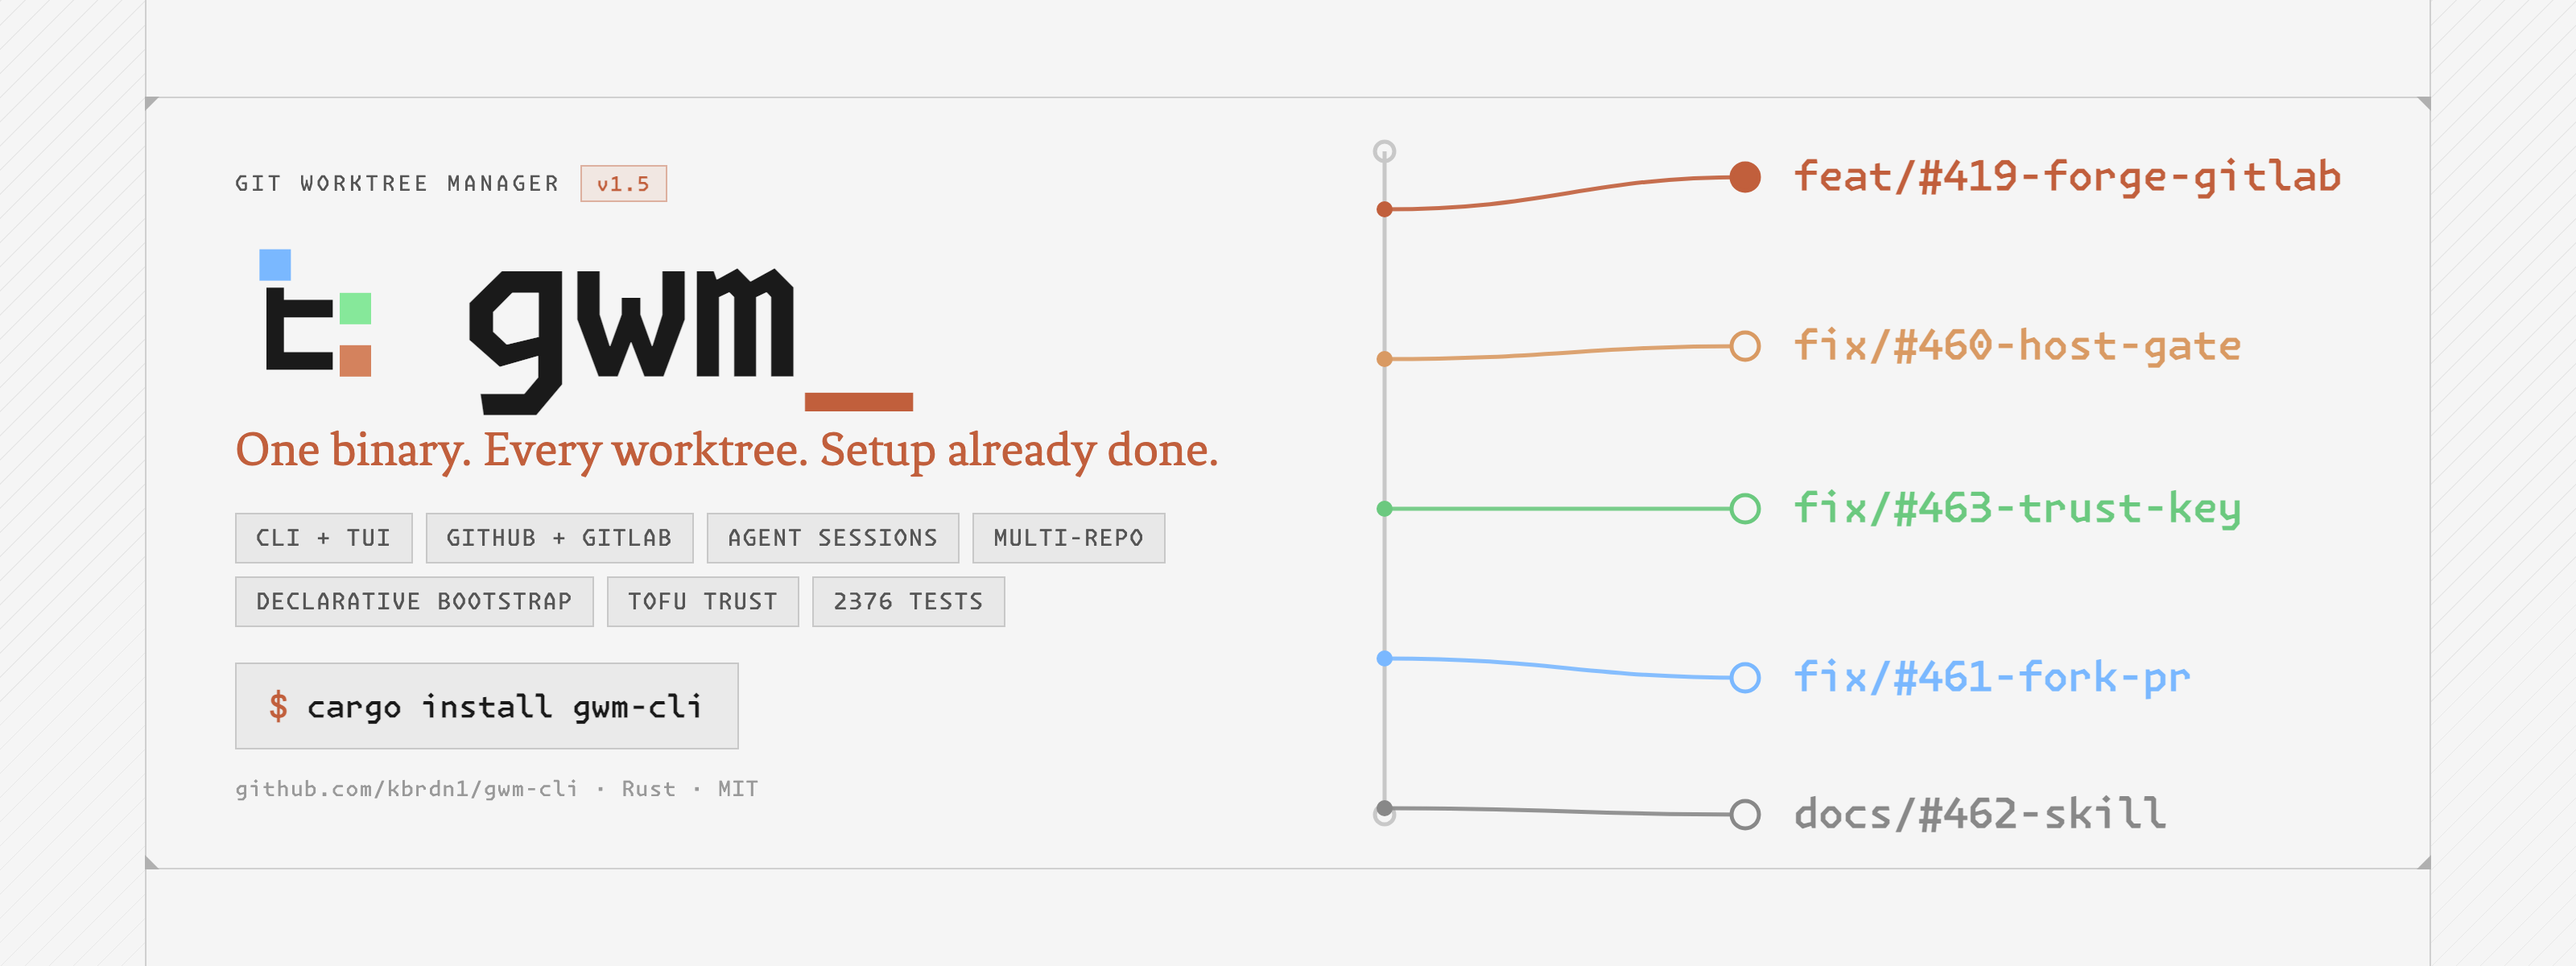
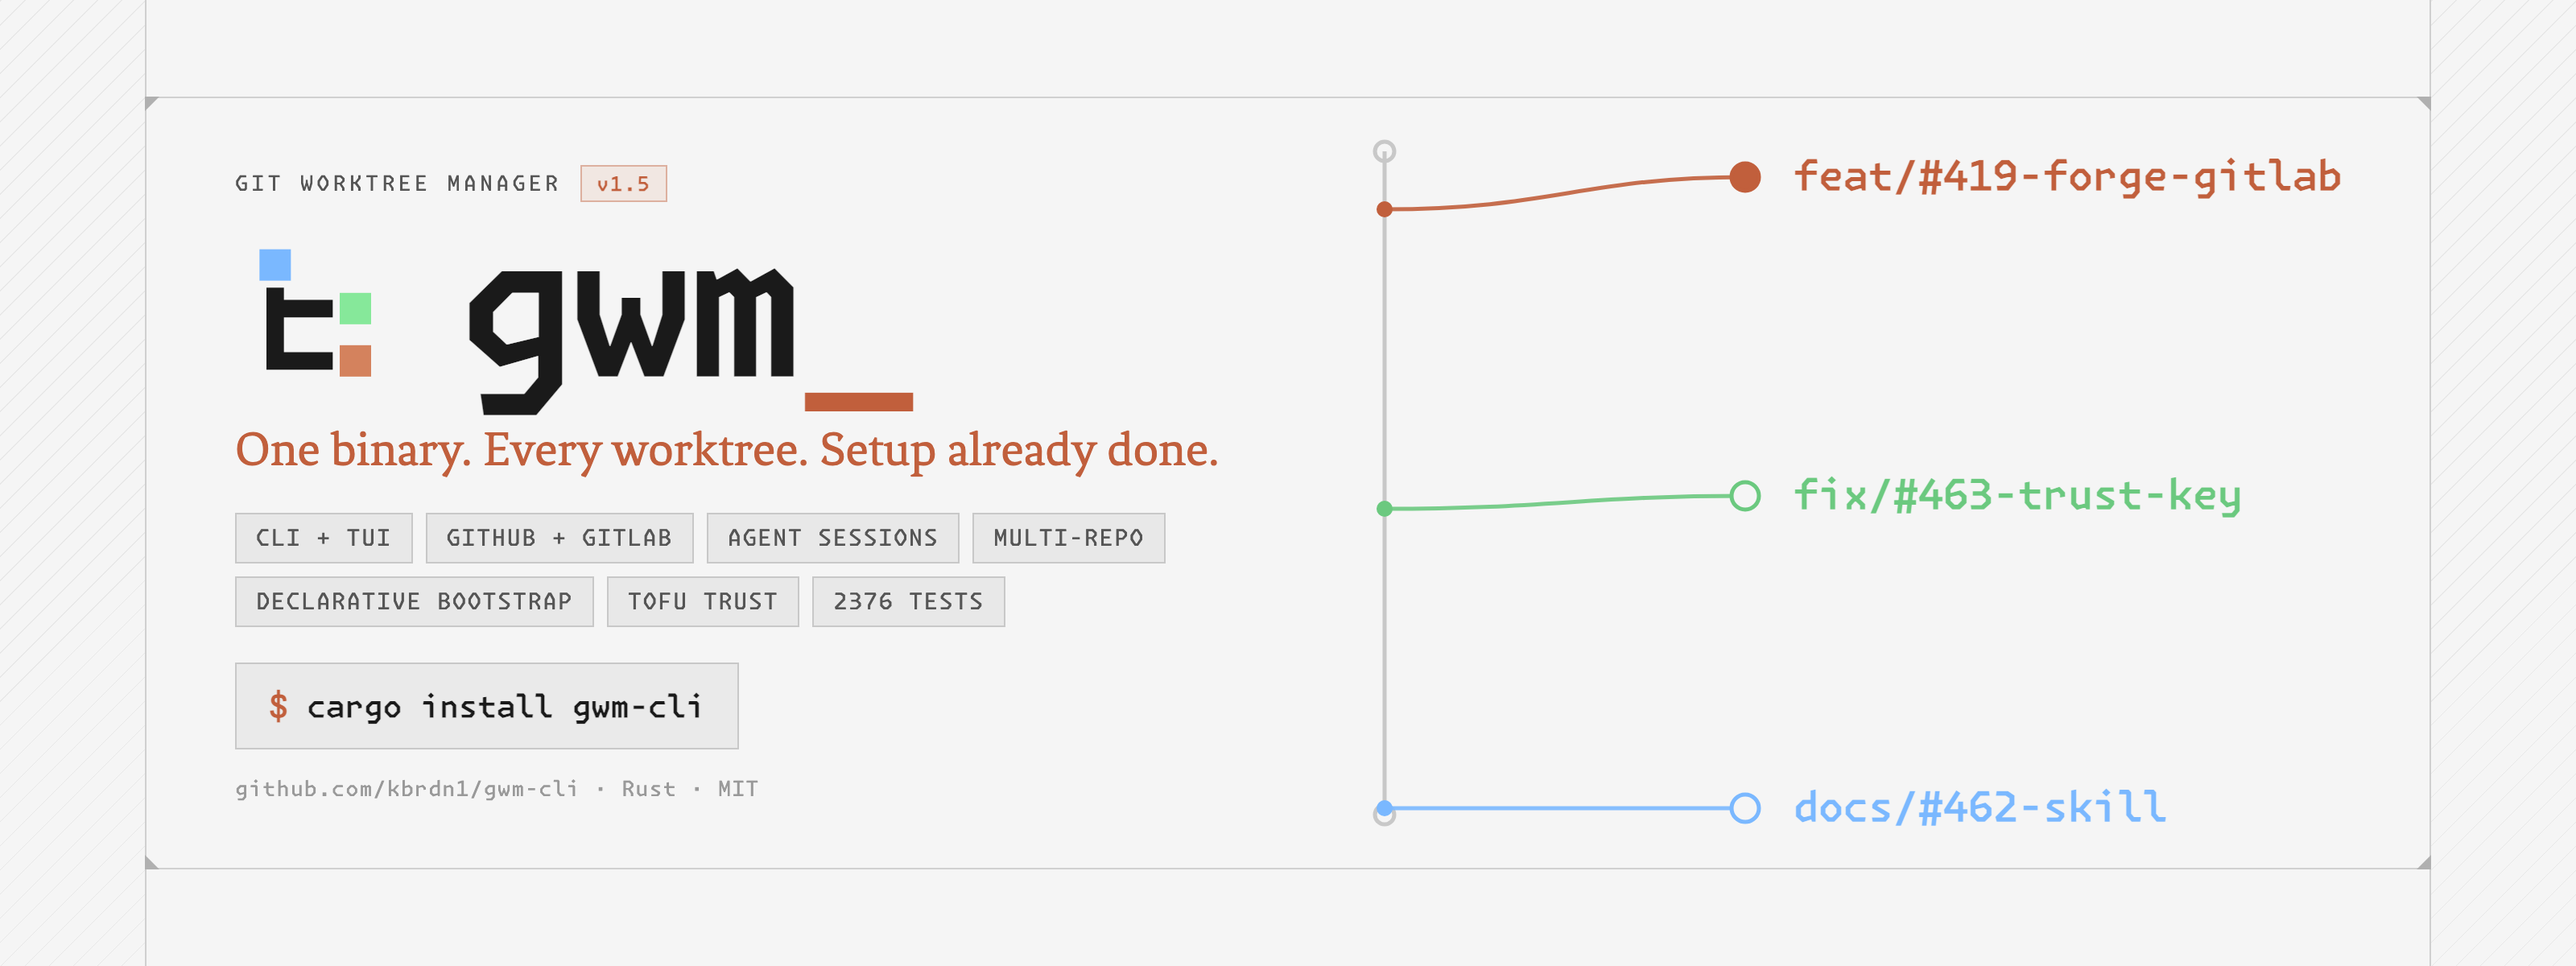
🎨 docs(assets): keep the promo branch graph to this release's real branches
The previous refresh padded the graph to five rows with `fix/#460-host-gate`
and `fix/#461-fork-pr`, which are issue numbers rather than branches: both were
fixed inside #458 and neither ever had a worktree. The v1.4.0 banner used the
release's actual merged branches, abbreviated to fit, and that is the
convention. Three rows is what v1.5.0 actually merged.

Also drops the em dashes from the 1.5.0 release-note header, which is the body
GitHub publishes via --notes-file.

diff --git a/changelogs/1.5.0.md b/changelogs/1.5.0.md
@@ -4,7 +4,7 @@
 now go through a `Forge` trait with two implementations
 ([#419](https://github.com/kbrdn1/gwm-cli/issues/419)): the existing GitHub one
 (`gh`) and a new GitLab one (`glab`). Everything a worktree actually is stays
-forge-neutral — the `branch.<name>.gwm-*` link storage, bootstrap, branch
+forge-neutral: the `branch.<name>.gwm-*` link storage, bootstrap, branch
 naming, the daemon and the TUI do not know which forge is in play, so nothing
 about a repo becomes forge-specific on disk.
 
@@ -12,8 +12,8 @@ Most of the work in this line is not the happy path; it is what the review loop
 found underneath it. Making non-github.com hosts reachable for the first time
 turned a hardcoded assumption into a decision that had to be made explicitly:
 an unrecognised host is **not** assumed to be GitHub, because assuming it would
-have sent an authenticated call — and whatever token the environment carries —
-to whatever host a cloned repo's `origin` happened to name. Authorising a
+have sent an authenticated call, and whatever token the environment carries, to
+whatever host a cloned repo's `origin` happened to name. Authorising a
 self-hosted host is therefore its own decision (`[forge_hosts]` in your own
 global config, or the TOFU trust ledger via the new `gwm trust add`), kept
 deliberately apart from the `forge` key that only names a backend. The same
